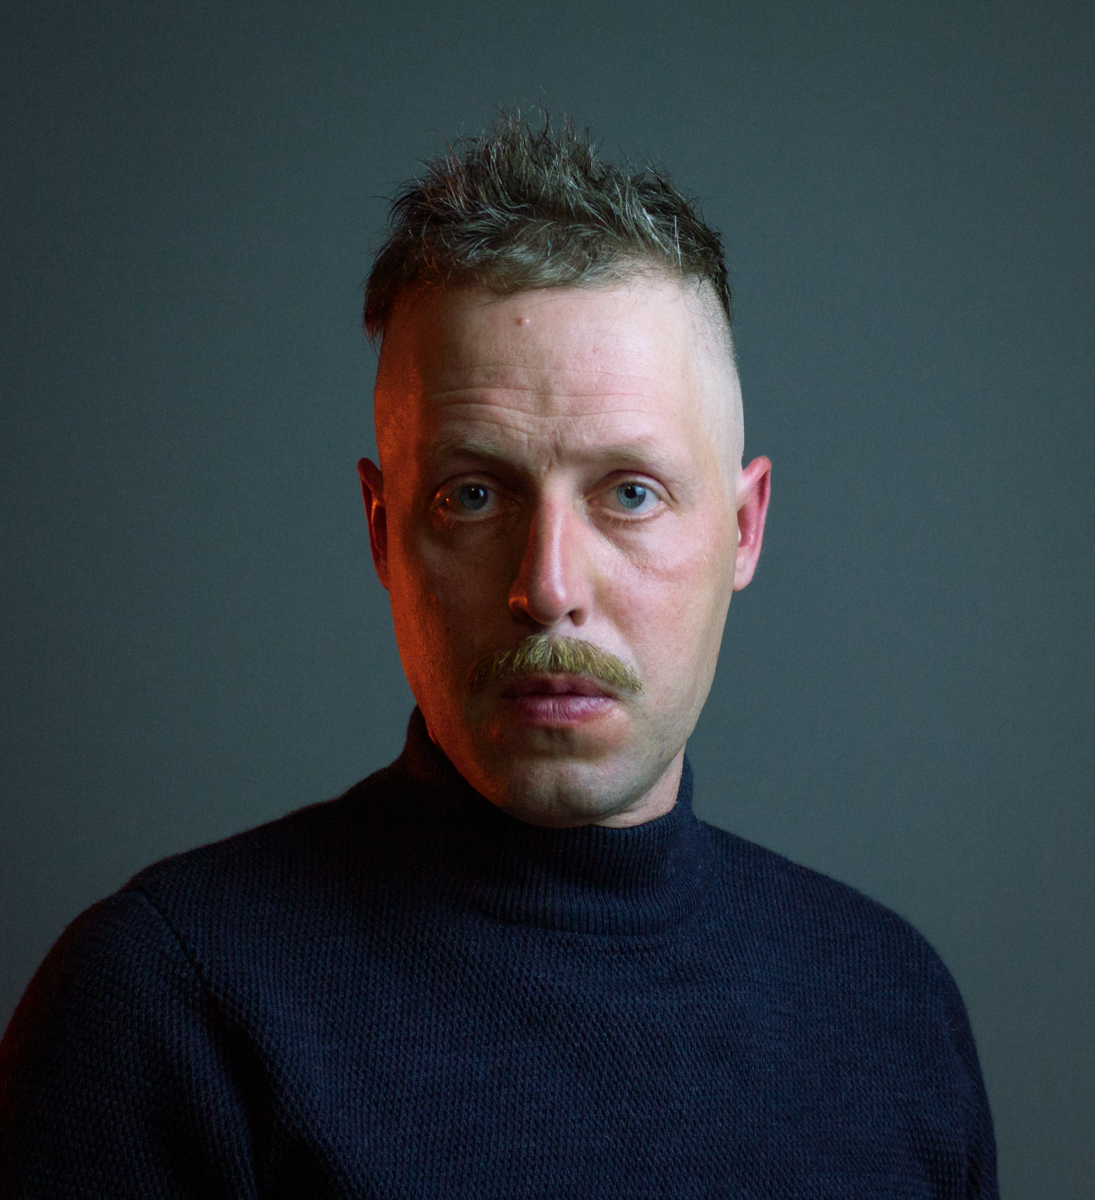
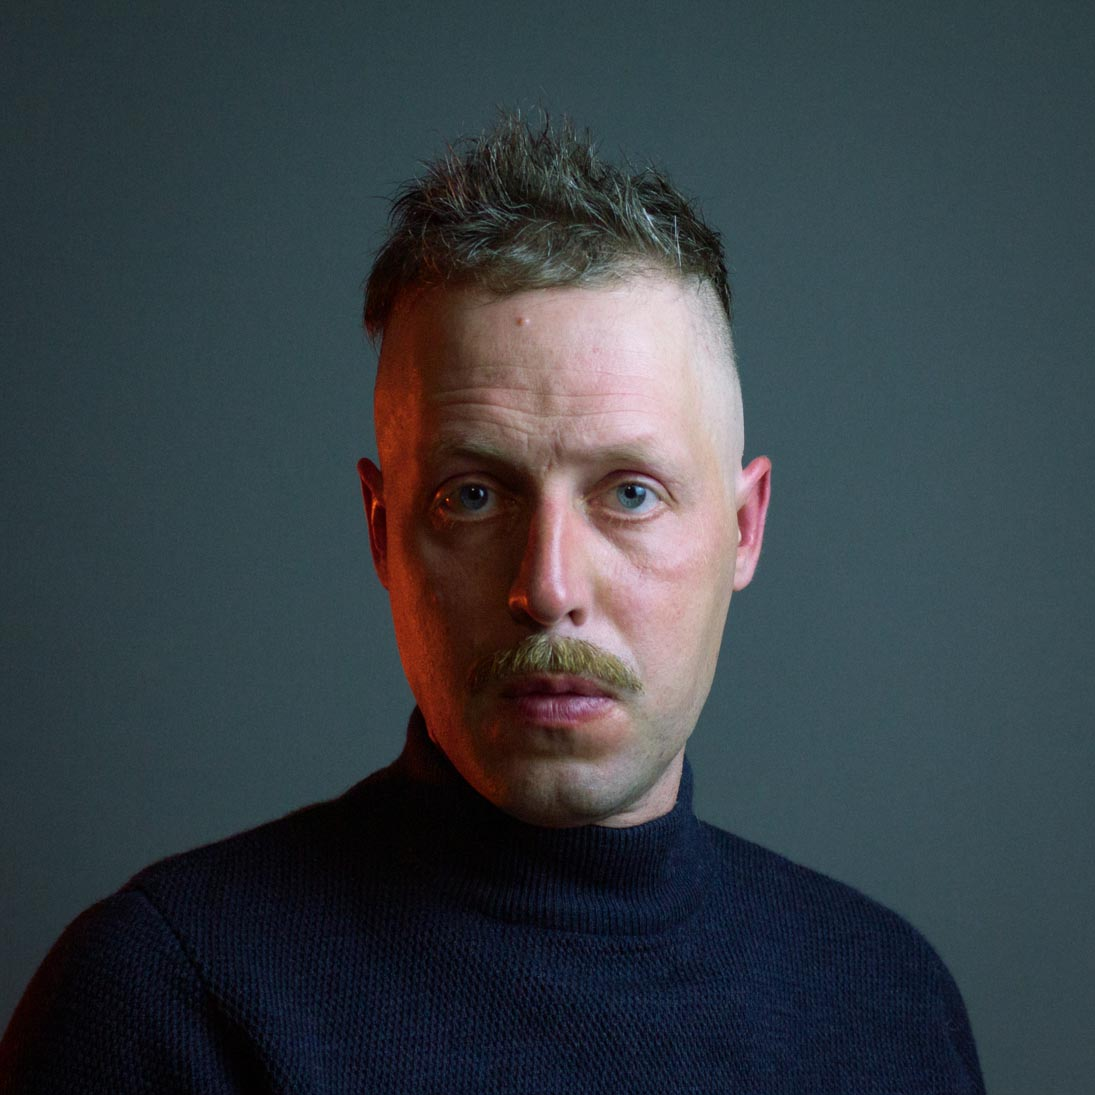
Add files via upload
update

Changed region(s): [[0.0, 0.0932, 0.9315, 1.0]]

diff --git a/script.js b/script.js
@@ -1,37 +1,51 @@
 // Portfolio data
 const portfolioItemsData = [
     { id: '1088401381', platform: 'vimeo', category: 'editing', title: 'Telia Christmas - Neighbours' },
-    { id: '1088411526', platform: 'vimeo', category: 'editing', title: 'Maxima' },
     { id: '1088401288', platform: 'vimeo', category: 'editing', title: 'Telia - 5g' },
+    { id: '1089622696', platform: 'vimeo', category: 'editing', title: 'Alita Brut Cuvee' },
     { id: '1088418560', platform: 'vimeo', category: 'editing', title: 'Telia - I love you' },
-    { id: '1088403330', platform: 'vimeo', category: 'editing', title: 'Maxima Christmas' },
+   
     { id: '1088405416', platform: 'vimeo', category: 'editing', title: 'Love' },
-    { id: '1088426586', platform: 'vimeo', category: 'editing', title: 'Altel Robots KZ' },
-    { id: '1088405286', platform: 'vimeo', category: 'editing', title: 'Gubernija Naked brown ale' },
+    { id: '1088403330', platform: 'vimeo', category: 'editing', title: 'Maxima Christmas' },
+    { id: '1089622990', platform: 'vimeo', category: 'editing', title: 'Credit 24 If you...' },
+    { id: '1089623472', platform: 'vimeo', category: 'editing', title: 'Tautiška Giesmė 2016' },
+   
+    //{ id: 'Ly1aNiiq0oU', platform: 'youtube', category: 'editing', title: 'TELE2 Lietuva Commercial' },
+    { id: '1088428260', platform: 'vimeo', category: 'editing', title: 'Starka' },
     { id: '1088402051', platform: 'vimeo', category: ['editing', 'color'], title: 'Amfora' },
+    { id: '1088405286', platform: 'vimeo', category: 'editing', title: 'Gubernija Naked brown ale' },
+    { id: '1089623385', platform: 'vimeo', category: 'editing', title: 'Maxima Meilutytė' },
+
+    { id: '1089622939', platform: 'vimeo', category: 'editing', title: 'Credit 24 Good Mood' },
     { id: '1088409265', platform: 'vimeo', category: 'editing', title: 'imperial_xii (1080p)' },
     { id: '1088401186', platform: 'vimeo', category: 'editing', title: 'Švyturys - Už mus, Lietuvius' },
-    { id: '932154899', platform: 'vimeo', category: ['editing', 'color'], title: 'Amouage - Extrait de Amou' },
-    // { id: '913318030', platform: 'vimeo', category: ['editing', 'color'], title: 'Super Manki 15s' },
-    { id: '336777947', platform: 'vimeo', category: ['editing', 'color'], title: 'Perskindol' },
+    { id: '1088428189', platform: 'vimeo', category: 'editing', title: 'Lithuanian vodka Unique' },
+
+    { id: '1089622859', platform: 'vimeo', category: 'editing', title: 'Credit24 Its best...' },
     { id: '1088409184', platform: 'vimeo', category: 'editing', title: 'Gritė Daugiau švaros' },
-    { id: '323261279', platform: 'vimeo', category: 'editing', title: 'Dlight' },
+    { id: '336777947', platform: 'vimeo', category: ['editing', 'color'], title: 'Perskindol' },
+    { id: '1089623033', platform: 'vimeo', category: 'editing', title: 'DLight (DC)' },
+    
     { id: '1088413507', platform: 'vimeo', category: 'editing', title: 'Telia Elevator' },
-    { id: 'YNmLAYfnD9s', platform: 'youtube', category: 'editing', title: 'Telia Lietuva Commercial' },
+    { id: '323261279', platform: 'vimeo', category: 'editing', title: 'Dlight' },
     { id: '148210012', platform: 'vimeo', category: 'editing', title: 'Rimi Image' },
     { id: '1dny7n_Z43E', platform: 'youtube', category: 'editing', title: 'Jazzu Music Video' },
+
+    { id: '1089622789', platform: 'vimeo', category: 'editing', title: 'Bosca' },
     { id: '148209772', platform: 'vimeo', category: 'editing', title: 'Maxima_Šeimos mėnuo' },
-    { id: '1088428260', platform: 'vimeo', category: 'editing', title: 'Starka' },
-    { id: '1088428189', platform: 'vimeo', category: 'editing', title: 'Lithuanian vodka Unique' },
-    { id: 'Ly1aNiiq0oU', platform: 'youtube', category: 'editing', title: 'TELE2 Lietuva Commercial' },
     { id: '134650086', platform: 'vimeo', category: 'editing', title: 'Maxima Bumsiai' },
-    { id: '148072833', platform: 'vimeo', category: 'editing', title: 'Tele2 All Calls' },
-    { id: '122527454', platform: 'vimeo', category: 'editing', title: 'Iki lojalumas' },
-    { id: '1088401595', platform: 'vimeo', category: 'editing', title: 'Obeliai Family' },
+    { id: 'YNmLAYfnD9s', platform: 'youtube', category: 'editing', title: 'Telia Lietuva Commercial' },
+
+    { id: '1089623252', platform: 'vimeo', category: 'editing', title: 'Maxima Kalėdos' },
     { id: '1088428098', platform: 'vimeo', category: ['editing', 'color'], title: 'Labas Mustang' },
-    { id: '148210418', platform: 'vimeo', category: 'editing', title: 'Ežys Kiss' },
-    { id: '148210664', platform: 'vimeo', category: 'editing', title: 'Scanorama' },
+    { id: '1088401595', platform: 'vimeo', category: 'editing', title: 'Obeliai Family' },
+    { id: '1088426586', platform: 'vimeo', category: 'editing', title: 'Altel Robots KZ' },
+
+   
+    { id: '148072833', platform: 'vimeo', category: 'editing', title: 'Tele2 All Calls' },
     { id: '103982274', platform: 'vimeo', category: 'editing', title: 'Omnitel 4G' },
+    { id: '148210418', platform: 'vimeo', category: 'editing', title: 'Ežys Kiss' },
+    //{ id: '148210664', platform: 'vimeo', category: 'editing', title: 'Scanorama' },
     { id: '103418528', platform: 'vimeo', category: 'editing', title: 'IKI Ūkis' }
 ];
 
@@ -87,7 +101,8 @@ class VideoPortfolio {
             if (itemData.platform === 'youtube') {
                 img.src = `https://img.youtube.com/vi/${itemData.id}/maxresdefault.jpg`;
             } else if (itemData.platform === 'vimeo') {
-                img.src = `https://vumbnail.com/${itemData.id}.jpg`;
+                const timestamp = new Date().getTime();
+                img.src = `https://vumbnail.com/${itemData.id}_640.jpg?cb=${timestamp}`;
             }
             img.alt = itemData.title || 'Video thumbnail';
             img.loading = 'lazy';

diff --git a/index.html b/index.html
@@ -3,7 +3,7 @@
 <head>
     <meta charset="UTF-8">
     <meta name="viewport" content="width=device-width, initial-scale=1.0">
-    <title>Vladas Litvinas - Video Editor & Colorist</title>
+    <title>Vladas Litvinas - Film & Video Editor</title>
     <link rel="icon" type="image/svg+xml" href="favicon.svg">
     <link rel="icon" type="image/png" href="favicon.png">
     <link rel="stylesheet" href="styles.css">
@@ -17,7 +17,7 @@
         <div class="nav-container">
             <div class="nav-header">
                 <h1 class="nav-logo">Vladas Litvinas</h1>
-                <h1 class="nav-sublogo">Video Editor & Colorist</h1>
+                <h1 class="nav-sublogo">Film & Video Editor</h1>
             </div>
             <div class="nav-contact">
                 <a href="#work">Work</a>
@@ -50,12 +50,10 @@
                     </div>
                     <div class="about-text">
                         <p>
-                            I am a professional video editor and colorist with over a decade of experience in commercial and creative projects.
-                            <br> 
-                            My work spans across various genres, from TV commercials and music videos to corporate content and documentaries.
-                            <br> 
+                            I am a professional film and video editor with over a decade of experience in commercial and creative projects. 
+                            My work spans across various genres, from TV commercials and music videos to corporate content and documentaries. 
                             I specialize in crafting compelling visual narratives through precise editing and sophisticated color grading.
-                            <br> 
+                            <br>
                             Let's get in touch.
                         </p>
                     </div>
@@ -73,6 +71,23 @@
             </div>
         </div>
     </div>
+
+    <!-- Footer with Social Links -->
+    <footer class="footer">
+        <div class="container">
+            <div class="social-links">
+                <a href="https://www.facebook.com/vladas.litvinas.5" class="social-link" target="_blank" rel="noopener noreferrer">
+                    <svg class="social-icon" xmlns="http://www.w3.org/2000/svg" viewBox="0 0 24 24"><path d="M24 12.073c0-6.627-5.373-12-12-12s-12 5.373-12 12c0 5.99 4.388 10.954 10.125 11.854v-8.385H7.078v-3.47h3.047V9.43c0-3.007 1.792-4.669 4.533-4.669 1.312 0 2.686.235 2.686.235v2.953H15.83c-1.491 0-1.956.925-1.956 1.874v2.25h3.328l-.532 3.47h-2.796v8.385C19.612 23.027 24 18.062 24 12.073z"/></svg>
+                </a>
+                <a href="https://www.instagram.com/vladaslitvinas/" class="social-link" target="_blank" rel="noopener noreferrer">
+                    <svg class="social-icon" xmlns="http://www.w3.org/2000/svg" viewBox="0 0 24 24"><path d="M12 0C8.74 0 8.333.015 7.053.072 5.775.132 4.905.333 4.14.63c-.789.306-1.459.717-2.126 1.384S.935 3.35.63 4.14C.333 4.905.131 5.775.072 7.053.012 8.333 0 8.74 0 12s.015 3.667.072 4.947c.06 1.277.261 2.148.558 2.913.306.788.717 1.459 1.384 2.126.667.666 1.336 1.079 2.126 1.384.766.296 1.636.499 2.913.558C8.333 23.988 8.74 24 12 24s3.667-.015 4.947-.072c1.277-.06 2.148-.262 2.913-.558.788-.306 1.459-.718 2.126-1.384.666-.667 1.079-1.335 1.384-2.126.296-.765.499-1.636.558-2.913.06-1.28.072-1.687.072-4.947s-.015-3.667-.072-4.947c-.06-1.277-.262-2.149-.558-2.913-.306-.789-.718-1.459-1.384-2.126C21.319 1.347 20.651.935 19.86.63c-.765-.297-1.636-.499-2.913-.558C15.667.012 15.26 0 12 0zm0 2.16c3.203 0 3.585.016 4.85.071 1.17.055 1.805.249 2.227.415.562.217.96.477 1.382.896.419.42.679.819.896 1.381.164.422.36 1.057.413 2.227.057 1.266.07 1.646.07 4.85s-.015 3.585-.074 4.85c-.061 1.17-.256 1.805-.421 2.227-.224.562-.479.96-.899 1.382-.419.419-.824.679-1.38.896-.42.164-1.065.36-2.235.413-1.274.057-1.649.07-4.859.07-3.211 0-3.586-.015-4.859-.074-1.171-.061-1.816-.256-2.236-.421-.569-.224-.96-.479-1.379-.899-.421-.419-.69-.824-.9-1.38-.165-.42-.359-1.065-.42-2.235-.045-1.26-.061-1.649-.061-4.844 0-3.196.016-3.586.061-4.861.061-1.17.255-1.814.42-2.234.21-.57.479-.96.9-1.381.419-.419.81-.689 1.379-.898.42-.166 1.051-.361 2.221-.421 1.275-.045 1.65-.06 4.859-.06l.045.03zm0 3.678c-3.405 0-6.162 2.76-6.162 6.162 0 3.405 2.76 6.162 6.162 6.162 3.405 0 6.162-2.76 6.162-6.162 0-3.405-2.76-6.162-6.162-6.162zM12 16c-2.21 0-4-1.79-4-4s1.79-4 4-4 4 1.79 4 4-1.79 4-4 4zm7.846-10.405c0 .795-.646 1.44-1.44 1.44-.795 0-1.44-.646-1.44-1.44 0-.794.646-1.439 1.44-1.439.793-.001 1.44.645 1.44 1.439z"/></svg>
+                </a>
+                <a href="https://www.youtube.com/@kinomylios" class="social-link" target="_blank" rel="noopener noreferrer">
+                    <svg class="social-icon" xmlns="http://www.w3.org/2000/svg" viewBox="0 0 24 24"><path d="M23.498 6.186a3.016 3.016 0 0 0-2.122-2.136C19.505 3.545 12 3.545 12 3.545s-7.505 0-9.377.505A3.017 3.017 0 0 0 .502 6.186C0 8.07 0 12 0 12s0 3.93.502 5.814a3.016 3.016 0 0 0 2.122 2.136c1.871.505 9.376.505 9.376.505s7.505 0 9.377-.505a3.015 3.015 0 0 0 2.122-2.136C24 15.93 24 12 24 12s0-3.93-.502-5.814zM9.545 15.568V8.432L15.818 12l-6.273 3.568z"/></svg>
+                </a>
+            </div>
+        </div>
+    </footer>
 
     <!-- Initialize portfolio -->
     <script>

diff --git a/refresh-thumbnails.html b/refresh-thumbnails.html
@@ -1,0 +1,99 @@
+<!DOCTYPE html>
+<html>
+<head>
+    <title>Refresh Vimeo Thumbnails</title>
+    <style>
+        body {
+            font-family: -apple-system, BlinkMacSystemFont, 'Segoe UI', Roboto, sans-serif;
+            max-width: 800px;
+            margin: 40px auto;
+            padding: 0 20px;
+            background: #f5f5f5;
+        }
+        button {
+            padding: 10px 20px;
+            font-size: 16px;
+            cursor: pointer;
+            background: #00adef;
+            color: white;
+            border: none;
+            border-radius: 4px;
+        }
+        button:disabled {
+            background: #ccc;
+        }
+        #status {
+            margin-top: 20px;
+            padding: 10px;
+            border-radius: 4px;
+        }
+        .log {
+            margin: 5px 0;
+            padding: 8px;
+            background: #fff;
+            border-radius: 4px;
+            border: 1px solid #ddd;
+        }
+        .success { color: #28a745; }
+        .error { color: #dc3545; }
+    </style>
+</head>
+<body>
+    <h1>Refresh Vimeo Thumbnails</h1>
+    <button id="refreshBtn">Refresh All Thumbnails</button>
+    <div id="status"></div>
+
+    <script>
+        // Get video IDs from your portfolio
+        const videoIds = [
+            '1089623472', '1089623385', '1089623252', '1089623033',
+            '1089622990', '1089622939', '1089622859', '1089622789',
+            '1089622696', '1088401381', '1088411526', '1088401288',
+            '1088418560', '1088403330', '1088405416', '1088426586',
+            '1088405286', '1088402051', '1088409265', '1088401186',
+            '1088409184', '323261279', '1088413507', '148210012',
+            '148209772', '1088428260', '1088428189', '134650086',
+            '148072833', '122527454', '1088401595', '1088428098',
+            '148210418', '148210664', '103982274', '103418528'
+        ];
+
+        function log(message, isError = false) {
+            const div = document.createElement('div');
+            div.className = `log ${isError ? 'error' : 'success'}`;
+            div.textContent = message;
+            document.getElementById('status').appendChild(div);
+        }
+
+        async function refreshThumbnail(videoId) {
+            try {
+                const response = await fetch(`https://vumbnail.com/${videoId}.jpg/refresh`);
+                if (response.ok) {
+                    log(`✓ Refreshed thumbnail for video ${videoId}`);
+                } else {
+                    throw new Error(`Failed with status ${response.status}`);
+                }
+            } catch (error) {
+                log(`✗ Error refreshing thumbnail for video ${videoId}: ${error.message}`, true);
+            }
+        }
+
+        document.getElementById('refreshBtn').addEventListener('click', async function() {
+            const button = this;
+            button.disabled = true;
+            document.getElementById('status').innerHTML = '';
+            
+            log('Starting thumbnail refresh...');
+            
+            // Refresh thumbnails with a small delay between each request
+            for (const videoId of videoIds) {
+                await refreshThumbnail(videoId);
+                // Wait 500ms between requests to be nice to the server
+                await new Promise(resolve => setTimeout(resolve, 500));
+            }
+            
+            log('Finished refreshing all thumbnails!');
+            button.disabled = false;
+        });
+    </script>
+</body>
+</html> 

diff --git a/styles.css b/styles.css
@@ -444,16 +444,17 @@ html {
 
 /* About Section */
 .about-section {
-    padding: 4rem 0;
-    margin-top: 2rem;
+    padding: 3rem 0 2rem;
+    margin: 3rem 0;
+    border-top: 1px solid #222;
 }
 
 .about-content {
     max-width: 900px;
     margin: 0 auto;
     display: flex;
-    align-items: flex-start;
-    gap: 3rem;
+    align-items: center;
+    gap: 4rem;
 }
 
 .about-image {
@@ -463,7 +464,9 @@ html {
 .about-image img {
     width: 100%;
     height: auto;
-    border-radius: 0;
+    border-radius: 50%;
+    aspect-ratio: 1/1;
+    object-fit: cover;
     filter: grayscale(100%);
     transition: filter 0.3s ease;
 }
@@ -533,4 +536,37 @@ html {
     grid-template-columns: repeat(auto-fit, minmax(320px, 1fr));
     gap: 1rem;
     padding: 0.5rem 0;
+}
+
+/* Footer Styles */
+.footer {
+    padding: 1.5rem 0;
+    margin-top: 0;
+    border-top: 1px solid #222;
+}
+
+.social-links {
+    display: flex;
+    justify-content: center;
+    gap: 2rem;
+    padding: 1rem 0;
+}
+
+.social-link {
+    display: flex;
+    align-items: center;
+    justify-content: center;
+    width: 24px;
+    height: 24px;
+    transition: opacity 0.3s ease;
+}
+
+.social-link:hover {
+    opacity: 0.7;
+}
+
+.social-icon {
+    width: 100%;
+    height: 100%;
+    fill: #fff;
 } 
